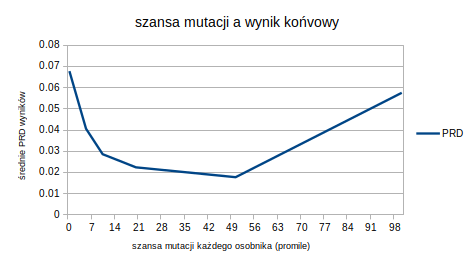
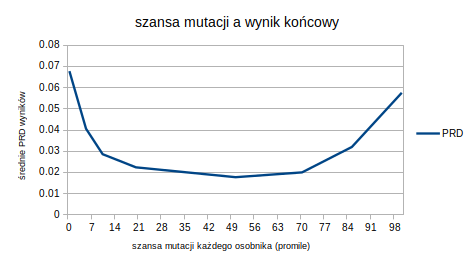
parametry, komentarze

diff --git a/lab3/GA.py b/lab3/GA.py
@@ -1,3 +1,4 @@
+#Klasa GeneticAlgorithm odpowiada za zarządzanie wyspami podczas symulacji
 
 import sys
 from xmlrpc.client import boolean
@@ -9,40 +10,55 @@ import Island
 #rozmiar populacji na wyspach
 POPULATION_SIZE = 20
 #szansa wydarzenia wymierania
-NUKE_CHANCE = 0.002
+NUKE_CHANCE = 0.001
 #ilość populacji usuniętej podczas wymierania
 NUKE_AMOUNT = 0.75
 #szansa na migrację
-MIGRATION_CHANCE = 0.01
+MIGRATION_CHANCE = 0.02
 #ilość migrujących osobników
 MIGRATING_MEMBERS = int(POPULATION_SIZE/10)
 #ilość rodziców
 PARENTS_SIZE = int(POPULATION_SIZE/2)
 #ilość członków "elitarnych"
 ELITES = 3
-#szansa mutacji każdego osobnika
-# MUTATION_CHANCE = 0.01
-#maksymalna ilość generacji danego osobnika
-#LIFE_EXPECTANCY = 50
-# generacja co 250 - najlepszy dotychczas
+#gromadzenie najlepszych wyników
 gen_best = []
 
+
 class GeneticAlgorithm():
-    def __init__(self, generations, islandNb, instance,r_cross,xmode,useInvert,MUTATION_CHANCE=0.01,ratio=0.5,LIFE_EXPECTANCY=50):
-        self.generation = 0
+    '''   
+    Klasa przyjmuje następujące parametry:
+        generations - liczba generacji
+        islandNb - liczba wysp
+        instance - odniesienie do instancji grafu i macierzy
+        r_cross - szansa krzyżowania rodziców
+        xmode - tryb krzyżowania
+        useInvert - określenie czy mamy używać invert czy swap jako metodę mutacji
+        MUTATION_CHANCE - szansa mutacji każdego osobnika
+        ratio - stosunek początkowej populacji NN a KRandom (1 to w pełni KRandom)
+        LIFE_EXPECTANCY - maksymalna długość życia osobnika
+    '''
+    def __init__(self, generations, islandNb, instance,r_cross,xmode,useInvert,MUTATION_CHANCE=0.06,ratio=0.2,LIFE_EXPECTANCY=50):
         self.generationNb = generations
         self.islandNb = islandNb
-        self.ISLANDS = []
-        self.bestPerm = []
-        self.Improvements = []
-        self.bestFC = sys.float_info.max
         self.instance = instance
         self.useInvert = useInvert
         self.xmode = xmode
         self.MUTATION_CHANCE = MUTATION_CHANCE
         self.LIFE_EXPECTANCY = LIFE_EXPECTANCY
 
-
+        #aktualna generacja
+        self.generation = 0
+        #zbiór wysp
+        self.ISLANDS = []
+        #najlepsza globalnie permutacja
+        self.bestPerm = []
+        self.bestFC = sys.float_info.max
+    
+        #przechowywane poprawy
+        self.Improvements = []
+        
+        #inicjuj wyspy
         for i in range(islandNb):
             self.ISLANDS.append(Island.Island(POPULATION_SIZE,self.instance, r_cross,self.LIFE_EXPECTANCY, "Wyspa "+str(i),ratio=ratio))
 
@@ -82,6 +98,7 @@ class GeneticAlgorithm():
 
         return newPopulation
 
+    #symuluj wszystkie wyspy przez podaną w konstruktorze ilość generacji
     def simulate(self,bestSolution=0,debug:boolean=False):
         for i in range(self.generationNb):
             #print(f"Gen {i}")
@@ -90,12 +107,23 @@ class GeneticAlgorithm():
             print(self.bestPerm)
         return self.Improvements
 
+    #wypisz najlepszy wynik
     def printBest(self):
         print(f"[{self.bestFC}] {self.bestPerm}")
 
+    #pobierz najlepszy wynik
     def GetGenBest(self):
         return gen_best
 
+    '''
+        Przeprowadź symulację generacji w następującym cyklu:
+            1. Zdarzenia losowe (migracja, wymieranie)
+            2. Wybór rodziców
+            3. Krzyżowanie
+            4. Nowa populacjia
+            5. Mutacja
+            6. Sortuj
+    '''
     def simulateGeneration(self,bestSolution=0,debug:boolean=False):
         #nowa generacja
         self.generation += 1
@@ -115,9 +143,7 @@ class GeneticAlgorithm():
             self.ISLANDS[hix].nukeRandom(0.8)
 
         #migracja pomiędzy dwoma wyspami
-
         x = random.random()
-
         if x < MIGRATION_CHANCE:
             r1 = random.randint(0,self.islandNb-1)
             r2 = random.randint(0,self.islandNb-1)
@@ -133,7 +159,7 @@ class GeneticAlgorithm():
                     self.ISLANDS[r2].population.append(m)
                 self.ISLANDS[r2].population.sort()
 
-
+        #głowny przebieg wyspy
         for ISLAND in self.ISLANDS:
             #wybór rodziców (ruletka)
             parents = ISLAND.select(PARENTS_SIZE)

diff --git a/lab3/Island.py b/lab3/Island.py
@@ -1,3 +1,5 @@
+#Plik definiuje klasę Island odpowiedzialną za zarządzanie populacją oraz pomocniczą klasę Member
+
 from random import randint,random
 from xmlrpc.client import boolean
 from Roulette import Roulette
@@ -26,30 +28,40 @@ class Member():
 
 
 class Island():
+    '''
+        Argumenty konstruktora:
+        populationSize - rozmiar populacji
+        instance - odniesienie do załadowanego pliku
+        r_cross - szansa krzyżowania rodziców
+        lifeExpectancy - maksymalna długość życia populacji
+        name - nazwa wyspy
+        ratio - stosunek członków NN a Krandom w generowanej populacji początkowej
+    '''
     def __init__(self, populationSize, instance,r_cross, lifeExpectancy,name="Unnamed",ratio=0.5):
-        #rozmiar populacji początkowej
         self.populationSize = populationSize
-        #populacja
-        self.population = []
         self.name = name
-        self.generation = 0
-        self.roulette = Roulette(self.populationSize)
         self.instance = instance
         self.lifeExpectancy = lifeExpectancy
         self.ratio = ratio
-        self.generateMembers(self.populationSize,True)
         self.r_cross = r_cross
 
+        #populacja
+        self.population = []
+        #generacja
+        self.generation = 0
+        #inicjuj ruletkę
+        self.roulette = Roulette(self.populationSize)
+        #wygeneruj populację początkową
+        self.generateMembers(self.populationSize,True)
         
-    def generateMembers(self, amount, useinvert):
 
+    def generateMembers(self, amount, useinvert):
         a1 = int(amount*self.ratio)
         a2 = amount - a1
         self.generateMembersKR(a1)
         self.generateMembersNN(a2,useinvert)
         
     #wygenereuj populację o danym rozmiarze
-    #(random? (na razie))
     def generateMembersKR(self, amount):
         for _ in range(amount):
             member,mfc = krandom.krandom(self.instance.size,self.instance.dis_mat,1)
@@ -102,9 +114,6 @@ class Island():
     def crossover(self,parents,xmode) -> [Member]:
         children = []
         r_cross = self.r_cross
-        # typ OX - order crossover
-        #zwraca tablice members
-
 
         parents = deepcopy(parents)
         parents: [Member,Member] = [[parents[i],parents[i+1]]for i in range(0,len(parents), 2)]
@@ -127,9 +136,6 @@ class Island():
                     c2 = OX(p[1].perm,p[0].perm,p1,p2)
                     c2 = Member(c2, fc(self.instance.dis_mat,c2), self.generation + self.lifeExpectancy)
                     children.append(c2)
-
-
-
 
                 elif xmode == 2:
 
@@ -154,10 +160,6 @@ class Island():
 
                     children.append(c1)
                     children.append(c2)
-
-
-
-
 
             else:
                 c1 = Member(p[0].perm,p[0].fc,self.generation + self.lifeExpectancy)

diff --git a/lab3/prezentacja.py b/lab3/prezentacja.py
@@ -12,5 +12,5 @@ spx = 3
 cx = 4
 island_nb = 2
 r_cross = 0.5
-ga = GeneticAlgorithm(int(gen_number), island_nb,instance,0.5,cx,invert,float(ratio))
+ga = GeneticAlgorithm(int(gen_number), island_nb,instance,0.5,cx,invert,ratio=float(ratio))
 imp = ga.simulate(int(best_PRD),True)
